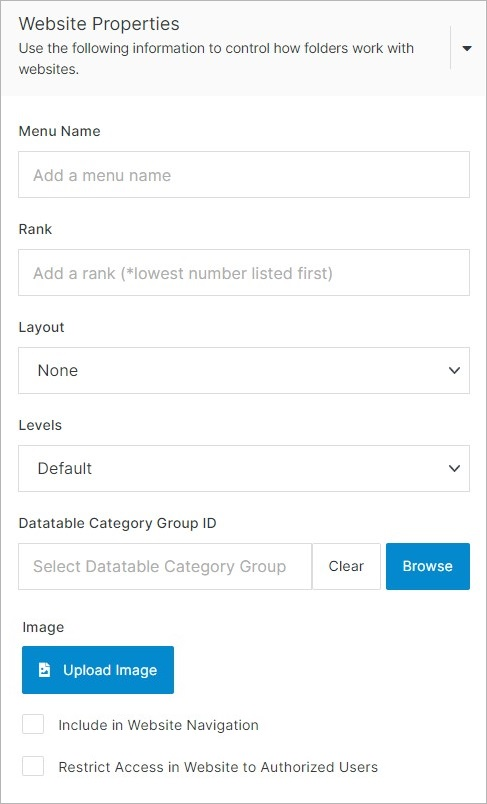
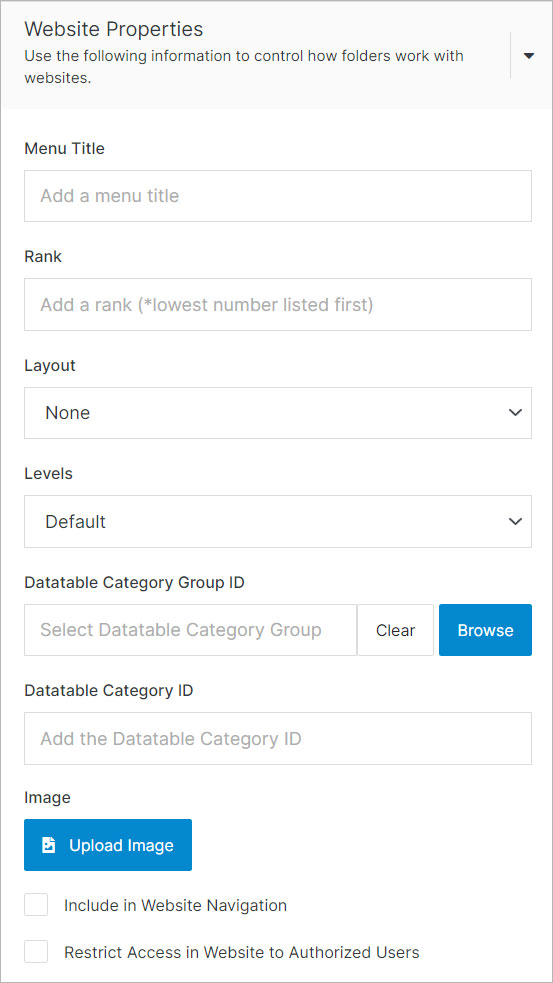
Update information and pictures on update folder and upload.

diff --git a/src/Workspace/Websites/Manage Folder/Upload/index.md b/src/Workspace/Websites/Manage Folder/Upload/index.md
@@ -2,22 +2,17 @@
 
 Upload a file from your computer. Solodev CMS allows users to upload four primary file types (HTML, Text, Image, and Document). 
 
-<img src="../../../../images/uploadfiles.png" alt="documents12" style="width: 50%; display: block"></a>
+<img src="../../../../images/folders/upload-files.png" alt="Files Uploader" style="width: 40%;"></a>
 
 **Name** | **Description**
 :--- | ---
-Browse | Browse the file and add it from your computer.
+Drop Area | Drag the files you can to upload from your computer.
+Browse | Browse the file(s) and add it from your computer.
+Upload |  Upload and publish the files.
 Upload + Save |  Upload and save files without publishing them.
 Upload + Stage | Save the file and publish it to a staging server.
+Confirm | Once you have completed all the fields, click **Submit** to apply your changes.
 
 !!!Note:
-Solodev recommends uploading TPL files and HTML files to the **Web Files -> Content Folder**, **Web Files -> Templates Folder**, or **Web Files -> Forms Folder**. Images and script files (e.g., .php, .css, and .js files) should be uploaded to an assets folder located in the **www directory** (e.g., **www -> _ -> CSS or www -> _ -> scripts**).
+Solodev recommends uploading TPL files and HTML files to the **web files -> content folder**, **web files -> templates folder**, or **web files -> forms folder**. Images and script files (e.g., .php, .css, and .js files) should be uploaded to an assets folder located in the **www directory** (e.g., **www -> _ -> css or www -> _ -> js**).
 !!!
-
-!!!Note:
-Upload one or more files by clicking the browse button or dragging the files into the box.
-!!!
-
-## Confirm
-
-Once you have completed all the fields, click **Submit** to apply your changes.

diff --git a/src/Workspace/Websites/Manage Folder/Update Folder/index.md b/src/Workspace/Websites/Manage Folder/Update Folder/index.md
@@ -17,11 +17,11 @@ Submit | Once you have completed all the fields, click **Submit** to apply your 
 
 Control how folders work with websites.
 
-<img src="../../../../images/folders/website-properties.jpg" alt="Website Properties Accordion" style="width: 41%;"></a>
+<img src="../../../../images/folders/website-properties.jpg" alt="Website Properties Accordion" style="width: 43%;"></a>
 
 **Name** | **Description**
 :--- | ---
-Menu Name | If you'd like a different title to appear on the menu navigation than the folder title.
+Menu Title | If you'd like a different title to appear on the menu navigation than the folder title.
 Rank | Modify the rank to determine the folder's display order in the menu navigation. **Lowest number listed first.**
 Layout | The way the contents of a folder will be displayed in the navigation based on predefined templates. 
 Levels | How deep the elements in the folder will be displayed in the navigation.
